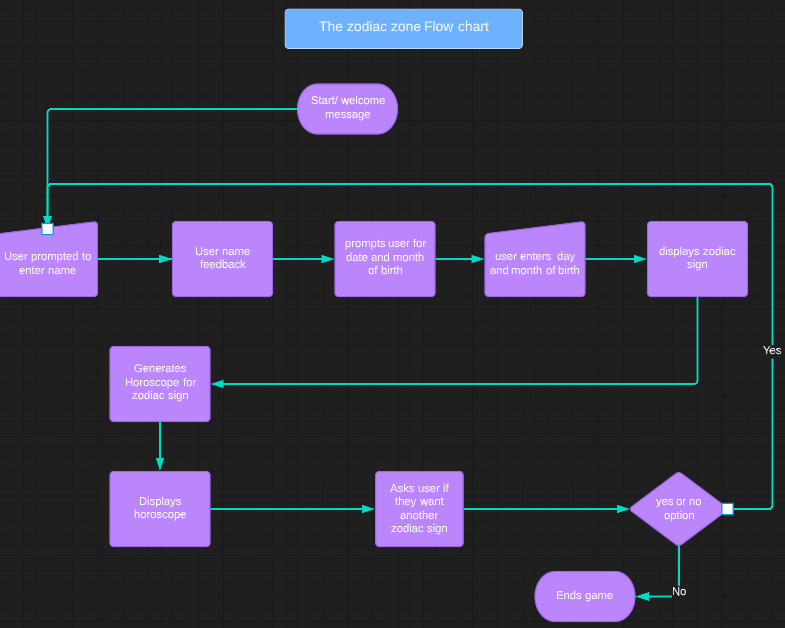
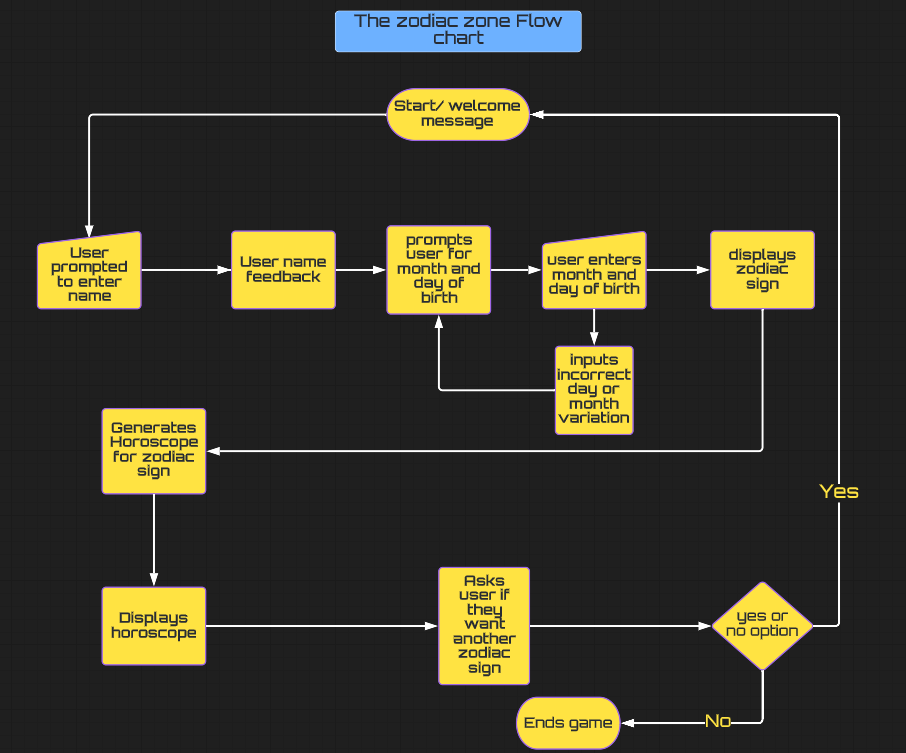
Add existing features to readme.md file

Changed region(s): [[0.0, 0.2723, 1.0, 0.9984], [0.0611, 0.0, 0.9478, 0.242], [0.8866, 0.6354, 0.9478, 0.6656]]

diff --git a/run.py b/run.py
@@ -96,7 +96,7 @@ def main():
             if day not in range(1, 32):
                 print("Sorry, your reply must be a number between 1 and 31.")
                 continue
-            if month in (1, 3, 4, 7, 10, 12):
+            if month in (1, 3, 5, 7, 10, 12):
                 max_days = 31
             elif month in (4, 6, 9, 11):
                 max_days = 30

diff --git a/README.md b/README.md
@@ -1,17 +1,26 @@
 # Zodiac Zone
 
-![Initial screenshot](media/screenshot.png)
-
 
 ### **[Live link to deployed application.](https://zodiac-zone.herokuapp.com/)**
+---
+
 
 # Table of contents:
 - ##  [Context](#context)
+
 - ##  [Design](#Design)
      - [Target audience](#Target-audience)
      - [Overview](#Overview)
      - [User Stories](#User-stories)
      - [Flowchart](#Flowchart)
+
+- ##  [Features](#Features)     
+     - [Existing features](#Existing-features) 
+     - [Application start](#Application-start)
+     - [User input](#User-input)
+     - [User feedback](#User-feedback)
+     - [Horoscope display](#Horoscope-display)
+     - [End of application](#End-of-application)
 # Context
 
 Zodiac zone is a random Horoscope generator. It uses the standard Western astrology and the twelve [Astrological signs](https://en.wikipedia.org/wiki/Astrological_sign) associated with western horoscopes.
@@ -42,24 +51,84 @@ This application is for fun and out come from the users input is generated rando
 
 ## User stories
 
-  ### First time user:
+### First time user:
   1. To be able to access the application with ease.
   2. Have clear navigation.
   3. Easy to read and understand instructions.
   4. Fun interactive application
 
-  ### Returning user:
+### Returning user:
   1. To be entertained.
   2. Navigate with ease
   3. Clear easy path to starting and restarting the application
 
-  ### As site owner:
+### As site owner:
   1. To be able the output from the generated horoscopes
   2. To make a fun and entertaining application
   3. To make sure the user has fun using the application.
 
-  ## Flowchart
+## Flowchart
 
 ![Wireframe](media/flowchart.png)
 
 I designed a basic flowchart on [Lucid Chart](https://www.lucidchart.com/) first.This was to give me a template to follow and to make sure my original design that I had planned was the outcome and final layout of the application. This was an essential piece to the over all project as it helped me keep track of how the application would be displayed to the user and the steps the user would take within the application.
+
+- Where were inputs from the user needed?
+- How would I deal with invalid inputs?
+- Were there any logic errors that could break the loop of the application?
+
+
+ # Features 
+
+  ## Existing features 
+  - ## Application start 
+    - Main Screen with logo of application name.
+    - Welcome message.
+    - Information about what the appliction is for. 
+    - Text prompt for user to enter name.
+    
+  ![Main screen](media/main.png)
+  ---
+
+  - ## User input
+    - User follows on screen text prompts.
+    - User enters name.
+    - Application feed back letting user know what is happening.
+  
+  ![User input screen](media/user-input.png)
+  ---
+
+  - ## User feedback
+    - Displays to the user that the appliction is calculating the star sign for the information the user input.
+    - Lets the user know the calculated zodiac sign for month and day input by user.
+    - Displays that a personal horoscope is generating give constant feedback to the user.
+
+  ![Application process](media/start-sign.png)
+   ---
+
+  - ## Horoscope display
+    - Displays the randomly generated horoscope
+    - Gives the user randomly generated lotto numbers
+    - Suggests to the user a lucky color for that day and sign
+    - Displays another sign for the user to get flirty with.
+    
+  ![Horoscope display](media/random-output.png)
+
+  - ## End of application
+   - At the end of the horoscope generation cycle, User is asked if they want another horoscop
+   - If the user inputs Y for another horoscope, appliction starts again.
+   - If the user inputs N the applications ends.
+   
+  ![End of application](media/end-game.png)
+  
+  - ## Error handling
+   - In the event the user input a wrong day month combination ie chooses day 31 in a month with only 30 days application throw error
+   - In the event the user inputs anything except a Y or N when asked if they would like another horoscope.
+
+  
+  ![Date error](media/error.png)
+  
+  ![Answer error](media/answer-error.png)
+  
+
+
